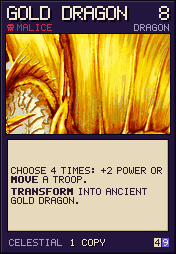
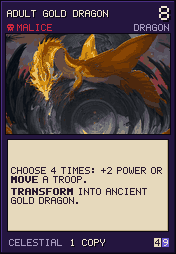
Stage NE-41: Gold Dragon -> Adult Gold Dragon on a scene art (the old one was a cut-out), its token Ancient Gold Dragon framed on the face and transforms back into Adult Gold Dragon

diff --git a/hs_unity/CARD_MAP.md b/hs_unity/CARD_MAP.md
@@ -141,7 +141,7 @@ S'theno, Neptulon TID, Neeru, Al'Akir NEW1 заменены свежими).
 | Scout (49019) | Tyrande (EDR_464) | `EDRFX_Tyrande_CustomSummon.prefab` | СДЕЛАНО (HsFx-79; владелец выбрал в HsBrowser 2026-10-27) |
 | ~~Silver Dragon~~ (—, существо убрано из игры NE-38; на 49020 теперь другое существо) | Azure Queen Sindragosa (TIME_852) | `TIMEFX_AzureQueenSindragosa_CustomSummon.prefab` | анимация свободна |
 | Shield Guardian (49218) | Omen (EDR_421) | `EDRFX_Omen_CustomSummon.prefab` | СДЕЛАНО (HsFx-77; владелец выбрал в HsBrowser 2026-10-27) |
-| Gold Dragon (49022) | Ursol (EDR_259) | `EDRFX_Ursol_CustomSummon.prefab` | СДЕЛАНО (HsFx-79; владелец выбрал в HsBrowser 2026-10-27) |
+| Adult Gold Dragon (49022) | Ursol (EDR_259) | `EDRFX_Ursol_CustomSummon.prefab` | СДЕЛАНО (HsFx-79; владелец выбрал в HsBrowser 2026-10-27) |
 
 ### shadow
 
